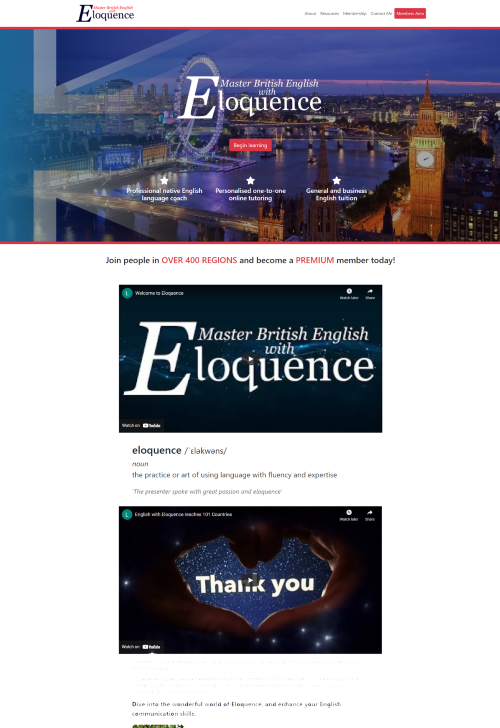
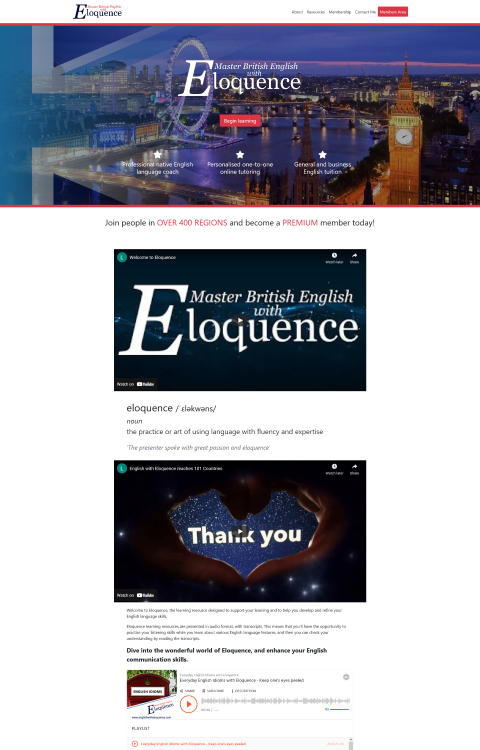
Portfolio image sizes

diff --git a/_layouts/home.html b/_layouts/home.html
@@ -199,8 +199,8 @@
                                             src="/assets/images/portfolio/{{  page.p2-image }}2.png"
                                             class="pf-img"
                                             alt="Portfolio Image"
-                                            height="750"
                                             width="480"
+                                            height="750"
                                         />
                                     </picture>
                                 </div>
@@ -265,7 +265,7 @@
                                             src="/assets/images/portfolio/{{  page.p4-image }}.png"
                                             class="pf-img"
                                             alt="Portfolio Image"
-                                            height="750"
+                                            height="550"
                                             width="480"
                                         />
                                     </picture>

diff --git a/_layouts/portfolio.html b/_layouts/portfolio.html
@@ -213,7 +213,7 @@
                                             src="/assets/images/portfolio/{{  page.p4-image }}.png"
                                             class="pf-img"
                                             alt="Portfolio Image"
-                                            height="750"
+                                            height="550"
                                             width="480"
                                         />
                                     </picture>

diff --git a/assets/css/main.css b/assets/css/main.css
@@ -338,6 +338,7 @@ nav {
 
 .pf-img {
     width: 18vw;
+    height: auto;
     box-shadow: 3px 2px 30px 12px rgba(0, 0, 0, 0.2);
 }
 
